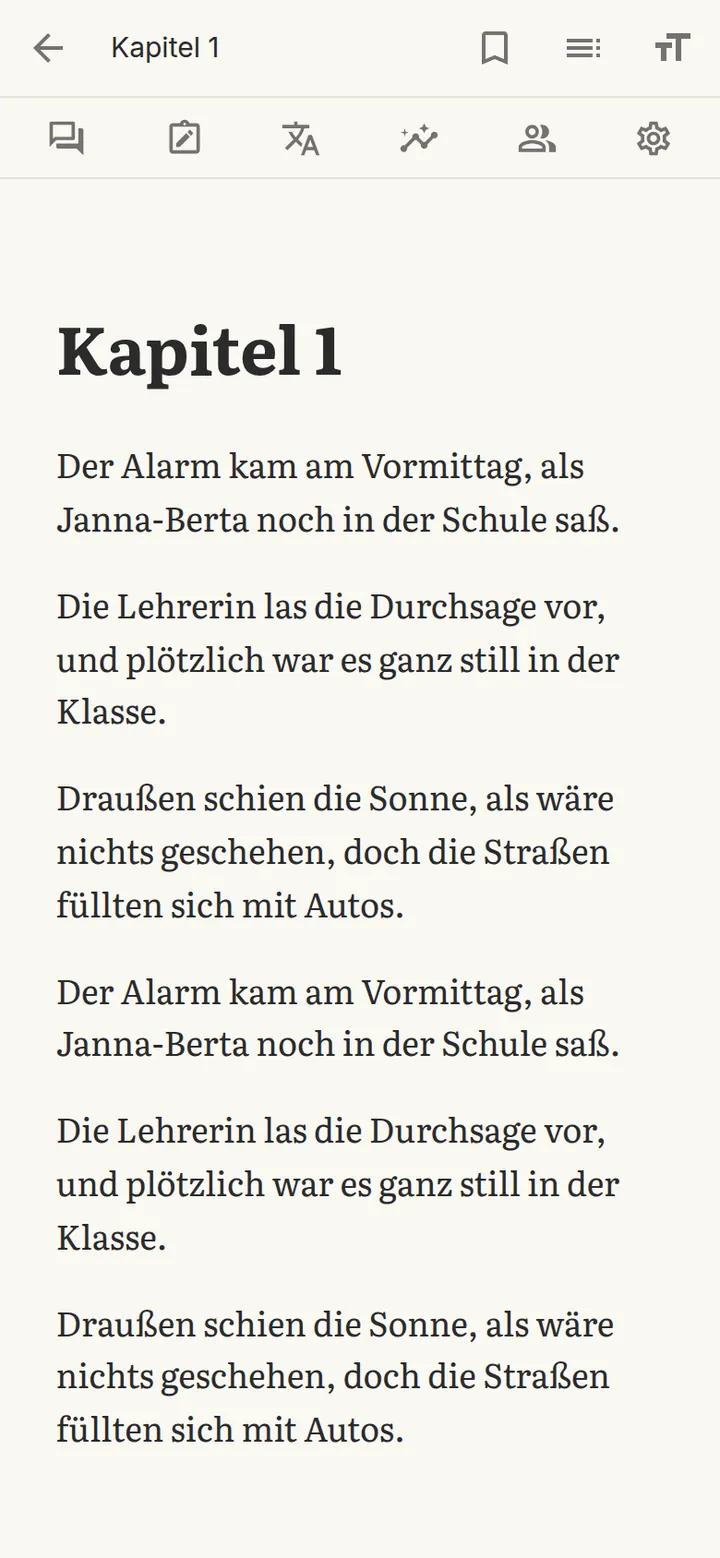
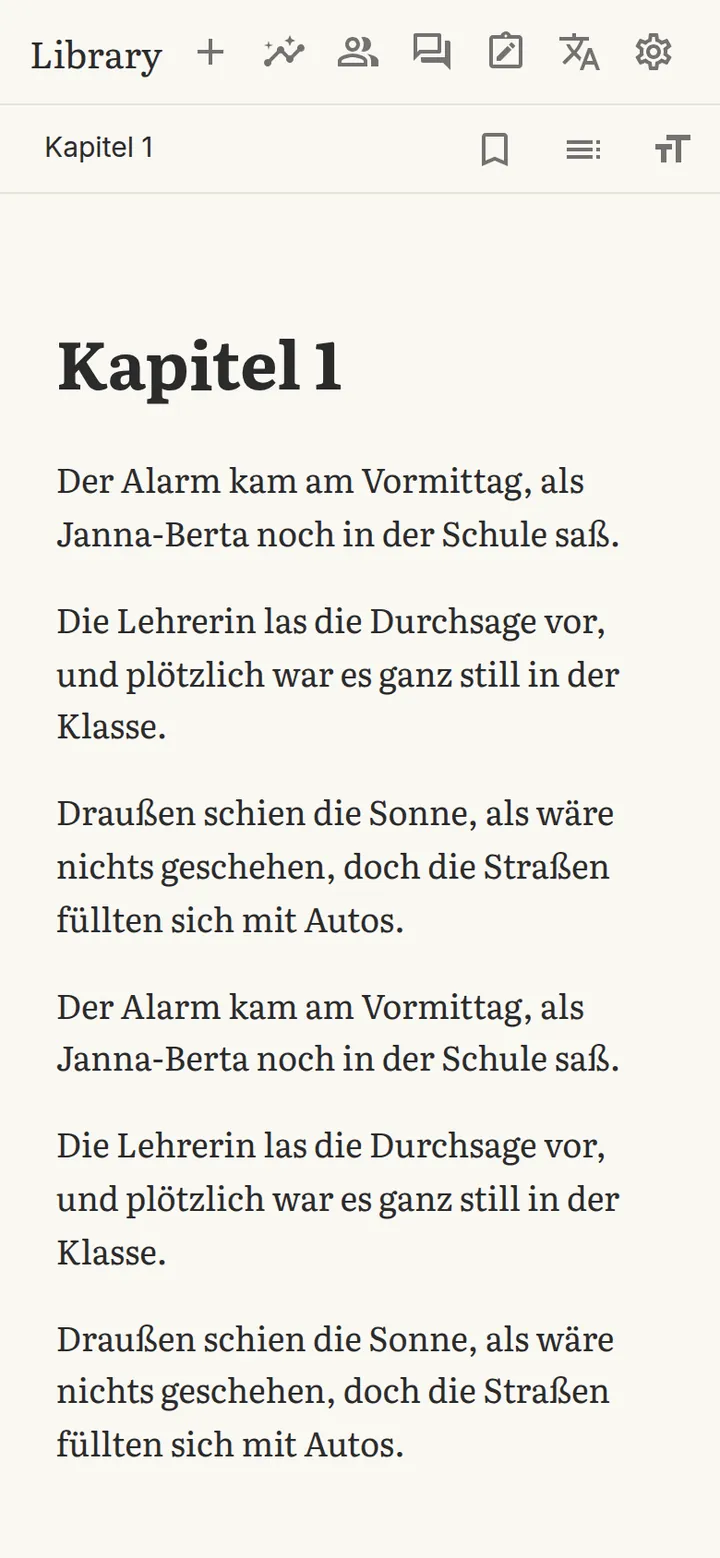
The Library bar on top of every page, the book and the chat included, always in the same place (TopBar); the page's own bar under it, without its back arrow; 'Continue reading' on the chat page too; tests; the manual and its screenshots

diff --git a/frontend/src/pages/ReaderPage.tsx b/frontend/src/pages/ReaderPage.tsx
@@ -1,9 +1,8 @@
 import { useCallback, useEffect, useMemo, useRef, useState } from 'react';
-import { Alert, AppBar, Box, Button, Dialog, DialogActions, DialogContent, DialogTitle, Divider, IconButton, LinearProgress, ListItemText, Menu, MenuItem, Snackbar, TextField, Toolbar, Typography, useMediaQuery, useTheme } from '@mui/material';
+import { Alert, AppBar, Box, Button, Dialog, DialogActions, DialogContent, DialogTitle, IconButton, LinearProgress, ListItemText, Menu, MenuItem, Snackbar, TextField, Toolbar, Typography } from '@mui/material';
 import BookmarkBorderIcon from '@mui/icons-material/BookmarkBorder';
 import BookmarkIcon from '@mui/icons-material/Bookmark';
 import { annotationsFor, deleteAnnotation, saveAnnotation, subscribeAnnotations, syncAnnotations, updateAnnotation, type Annotation } from '@/services/annotations';
-import ArrowBackIcon from '@mui/icons-material/ArrowBack';
 import FormatSizeIcon from '@mui/icons-material/FormatSize';
 import TocIcon from '@mui/icons-material/Toc';
 import SwapHorizIcon from '@mui/icons-material/SwapHoriz';
@@ -32,7 +31,7 @@ import type { TextSelection } from '@/reader/selection';
 import { SelectionPanel } from '@/reader/SelectionPanel';
 import { ImageViewer, type ViewedImage } from '@/components/ImageViewer';
 import { useSendToComputer } from '@/components/SendToComputer';
-import { ToolLinks } from '@/components/ToolLinks';
+import { TopBar } from '@/components/TopBar';
 import { setReadingNow } from '@/reader/readingNow';
 
 // Best reading experience first: text that reflows, then EPUB, then fixed PDF pages
@@ -272,18 +271,16 @@ export default function ReaderPage() {
     ref: viewRef, onLocation, onToc: setToc, onCurrentToc: setCurrentToc, onSelection, settings,
     vars: readingVars(settings), dark: colors.mode === 'dark', highlights, seenWords, onImage: setPicture,
   };
-  const theme = useTheme();
   const title = toc.find((t) => t.id === currentToc)?.label ?? book?.title;
-  const wideBar = useMediaQuery(theme.breakpoints.up('md'));
 
   return (
     <Box sx={{ height: '100vh', '@supports (height: 100dvh)': { height: '100dvh' }, display: 'flex',
       flexDirection: 'column', bgcolor: colors.background }}>
       <AppBar position="static" sx={{ pt: 'env(safe-area-inset-top)' }}>
-        {/* thumb-sized buttons, bigger and further apart on a tablet */}
-        <Toolbar variant="dense" sx={{ minHeight: { xs: 52, sm: 72 }, gap: { xs: 0.5, sm: 2.5 },
+        <TopBar bookId={book?.id} />
+        {/* the book's own bar: thumb-sized buttons, bigger and further apart on a tablet */}
+        <Toolbar variant="dense" sx={{ minHeight: { xs: 48, sm: 60 }, gap: { xs: 0.5, sm: 2.5 }, borderTop: 1, borderColor: 'divider',
           '& .MuiIconButton-root': { p: { xs: 1.25, sm: 1.75 } }, '& .MuiSvgIcon-root': { fontSize: { xs: 24, sm: 34 } } }}>
-          <IconButton edge="start" aria-label="Back to the library" onClick={() => navigate('/')}><ArrowBackIcon /></IconButton>
           <Typography noWrap sx={{ flex: 1, mx: 1, fontSize: { xs: 15, sm: 20 } }}>{title}</Typography>
           {formats.length > 1 && (
             <Button color="inherit" startIcon={<SwapHorizIcon />} aria-label="Switch format"
@@ -299,20 +296,10 @@ export default function ReaderPage() {
           {phase.kind === 'ready' && (
             <IconButton aria-label="Contents" onClick={openToc}><TocIcon /></IconButton>
           )}
-          <IconButton edge={wideBar ? false : 'end'} aria-label="Text settings" onClick={(e) => setSettingsAnchor(e.currentTarget)}>
+          <IconButton edge="end" aria-label="Text settings" onClick={(e) => setSettingsAnchor(e.currentTarget)}>
             <FormatSizeIcon />
           </IconButton>
-          {/* the app's tools, without leaving for the library: in this row when it's wide enough, else in their own */}
-          {wideBar && <Divider orientation="vertical" flexItem sx={{ my: 1.5 }} />}
-          {wideBar && <ToolLinks bookId={book?.id} />}
         </Toolbar>
-        {!wideBar && (
-          <Toolbar variant="dense" sx={{ minHeight: { xs: 44, sm: 56 }, justifyContent: 'space-around', px: { xs: 0.5, sm: 2 },
-            borderTop: 1, borderColor: 'divider', '& .MuiIconButton-root': { p: { xs: 1, sm: 1.5 } },
-            '& .MuiSvgIcon-root': { fontSize: { xs: 22, sm: 30 } } }}>
-            <ToolLinks bookId={book?.id} />
-          </Toolbar>
-        )}
       </AppBar>
       <Box sx={{ flex: 1, minHeight: 0, position: 'relative' }}>
         {!book && library && <Alert severity="warning" sx={{ m: 2 }}>This book is no longer in the library.</Alert>}

diff --git a/frontend/src/components/AppShell.tsx b/frontend/src/components/AppShell.tsx
@@ -1,43 +1,13 @@
 import type { ReactNode } from 'react';
-import { AppBar, Box, Button, Toolbar, Tooltip, Typography } from '@mui/material';
-import MenuBookOutlinedIcon from '@mui/icons-material/MenuBookOutlined';
-import CloudOffOutlinedIcon from '@mui/icons-material/CloudOffOutlined';
-import { Link as RouterLink } from 'react-router-dom';
-import { useOnlineStatus } from '@/hooks/useOnlineStatus';
-import { readingNow } from '@/reader/readingNow';
-import { ToolLinks } from './ToolLinks';
-import { READING_FONT } from '@/theme/readingThemes';
+import { AppBar, Box } from '@mui/material';
+import { ContinueReading, TopBar } from './TopBar';
 
 export function AppShell({ children }: { children: ReactNode }) {
-  const online = useOnlineStatus();
-  const reading = readingNow();
   return (
     <Box sx={{ minHeight: '100vh', bgcolor: 'background.default', color: 'text.primary' }}>
       <AppBar position="sticky" sx={{ pt: 'env(safe-area-inset-top)' }}>
-        {/* on a tablet: bigger icons, further apart (a phone has no room to spare for seven of them) */}
-        <Toolbar sx={{ minHeight: { sm: 72 }, gap: { xs: 0, sm: 1.5 },
-          '& .MuiIconButton-root': { p: { sm: 1.5 } }, '& .MuiIconButton-root .MuiSvgIcon-root': { fontSize: { sm: 32 } } }}>
-          <Typography component={RouterLink} to="/" variant="h6"
-            sx={{ flexGrow: 1, fontFamily: READING_FONT, fontSize: { sm: 24 }, color: 'inherit', textDecoration: 'none' }}>
-            Library
-          </Typography>
-          {!online && (
-            <Tooltip title="Offline: downloaded books still open">
-              <CloudOffOutlinedIcon fontSize="small" sx={{ color: 'text.secondary', mr: 1 }} />
-            </Tooltip>
-          )}
-          <ToolLinks />
-        </Toolbar>
-        {reading && (
-          <Button component={RouterLink} to={`/read/${encodeURIComponent(reading.id)}`} color="inherit" size="small"
-            startIcon={<MenuBookOutlinedIcon />}
-            sx={{ justifyContent: 'flex-start', px: { xs: 2, sm: 3 }, py: 0.75, borderRadius: 0, borderTop: 1,
-              borderColor: 'divider', fontSize: { xs: 14, sm: 16 }, textTransform: 'none' }}>
-            <Box component="span" sx={{ overflow: 'hidden', textOverflow: 'ellipsis', whiteSpace: 'nowrap' }}>
-              Continue reading: {reading.title}
-            </Box>
-          </Button>
-        )}
+        <TopBar />
+        <ContinueReading />
       </AppBar>
       <Box component="main" sx={{ px: { xs: 2, sm: 3 }, py: 3, maxWidth: 1200, mx: 'auto' }}>{children}</Box>
     </Box>

diff --git a/frontend/src/components/TopBar.tsx b/frontend/src/components/TopBar.tsx
@@ -1,0 +1,46 @@
+import { Box, Button, Toolbar, Tooltip, Typography } from '@mui/material';
+import MenuBookOutlinedIcon from '@mui/icons-material/MenuBookOutlined';
+import CloudOffOutlinedIcon from '@mui/icons-material/CloudOffOutlined';
+import { Link as RouterLink } from 'react-router-dom';
+import { useOnlineStatus } from '@/hooks/useOnlineStatus';
+import { readingNow } from '@/reader/readingNow';
+import { READING_FONT } from '@/theme/readingThemes';
+import { ToolLinks } from './ToolLinks';
+
+/** The app's bar, the same at the top of every page (Library and the tools); a page's own bar goes under it.
+ *  `bookId`: the book open now (a chat started from it asks about it). */
+export function TopBar({ bookId }: { bookId?: string }) {
+  const online = useOnlineStatus();
+  return (
+    // on a tablet: bigger icons, further apart (a phone has no room to spare for seven of them)
+    <Toolbar sx={{ minHeight: { sm: 72 }, gap: { xs: 0, sm: 1.5 },
+      '& .MuiIconButton-root': { p: { sm: 1.5 } }, '& .MuiIconButton-root .MuiSvgIcon-root': { fontSize: { sm: 32 } } }}>
+      <Typography component={RouterLink} to="/" variant="h6"
+        sx={{ flexGrow: 1, fontFamily: READING_FONT, fontSize: { sm: 24 }, color: 'inherit', textDecoration: 'none' }}>
+        Library
+      </Typography>
+      {!online && (
+        <Tooltip title="Offline: downloaded books still open">
+          <CloudOffOutlinedIcon fontSize="small" sx={{ color: 'text.secondary', mr: 1 }} />
+        </Tooltip>
+      )}
+      <ToolLinks bookId={bookId} />
+    </Toolbar>
+  );
+}
+
+/** "Continue reading: …" under the top bar, back to the book left last (this session) at its place */
+export function ContinueReading() {
+  const reading = readingNow();
+  if (!reading) return null;
+  return (
+    <Button component={RouterLink} to={`/read/${encodeURIComponent(reading.id)}`} color="inherit" size="small"
+      startIcon={<MenuBookOutlinedIcon />}
+      sx={{ justifyContent: 'flex-start', px: { xs: 2, sm: 3 }, py: 0.75, borderRadius: 0, borderTop: 1,
+        borderColor: 'divider', fontSize: { xs: 14, sm: 16 }, textTransform: 'none' }}>
+      <Box component="span" sx={{ overflow: 'hidden', textOverflow: 'ellipsis', whiteSpace: 'nowrap' }}>
+        Continue reading: {reading.title}
+      </Box>
+    </Button>
+  );
+}

diff --git a/frontend/src/pages/AskPage.tsx b/frontend/src/pages/AskPage.tsx
@@ -1,11 +1,11 @@
 import { useCallback, useEffect, useMemo, useRef, useState, type FormEvent } from 'react';
+import { ContinueReading, TopBar } from '@/components/TopBar';
 import {
   Alert, AppBar, Box, Button, Card, CardActionArea, CardContent, CircularProgress, Collapse, Dialog, DialogActions,
   DialogContent, DialogTitle, Drawer, IconButton, InputAdornment, List, ListItemButton, Link, ListItemText, Menu, MenuItem,
   Chip, Stack, TextField, Toolbar, Tooltip, Typography, useMediaQuery, useTheme,
 } from '@mui/material';
 import AddCommentOutlinedIcon from '@mui/icons-material/AddCommentOutlined';
-import ArrowBackIcon from '@mui/icons-material/ArrowBack';
 import ArrowUpwardIcon from '@mui/icons-material/ArrowUpward';
 import DeleteOutlineIcon from '@mui/icons-material/DeleteOutline';
 import DriveFileRenameOutlineIcon from '@mui/icons-material/DriveFileRenameOutline';
@@ -293,9 +293,11 @@ export default function AskPage() {
     <Box sx={{ height: '100vh', '@supports (height: 100dvh)': { height: '100dvh' }, display: 'flex', flexDirection: 'column',
       bgcolor: 'background.default' }}>
       <AppBar position="static" sx={{ pt: 'env(safe-area-inset-top)' }}>
-        <Toolbar variant="dense">
-          <IconButton edge="start" aria-label="Back to the library" onClick={() => navigate('/')}><ArrowBackIcon /></IconButton>
-          {!wide && <IconButton aria-label="Chats" onClick={() => setDrawer(true)}><MenuIcon /></IconButton>}
+        <TopBar />
+        <ContinueReading />
+        {/* the chat's own bar */}
+        <Toolbar variant="dense" sx={{ borderTop: 1, borderColor: 'divider' }}>
+          {!wide && <IconButton edge="start" aria-label="Chats" onClick={() => setDrawer(true)}><MenuIcon /></IconButton>}
           <Typography noWrap sx={{ flex: 1, mx: 1, fontSize: 15 }}>{conversation?.title || 'Ask your library'}</Typography>
           <Tooltip title="Which books to search">
             <Button size="small" color="inherit" startIcon={<LibraryBooksOutlinedIcon />} onClick={(e) => setScopeMenu(e.currentTarget)}

diff --git a/frontend/src/components/manual/content/reading.tsx b/frontend/src/components/manual/content/reading.tsx
@@ -2,7 +2,6 @@
 import MenuBookOutlinedIcon from '@mui/icons-material/MenuBookOutlined';
 import FormatSizeIcon from '@mui/icons-material/FormatSize';
 import HighlightAltIcon from '@mui/icons-material/HighlightAlt';
-import ArrowBackIcon from '@mui/icons-material/ArrowBack';
 import BookmarkBorderIcon from '@mui/icons-material/BookmarkBorder';
 import TocIcon from '@mui/icons-material/Toc';
 import SwapHorizIcon from '@mui/icons-material/SwapHoriz';
@@ -58,15 +57,14 @@ export const reading: ManualChapter = {
       body: (
         <>
           <Controls rows={[
-            { icon: <ArrowBackIcon />, label: 'Back', text: 'To the library.' },
             { icon: <SwapHorizIcon />, label: 'Format', text: 'Another format of the book (only when it has several).' },
             { icon: <BookmarkBorderIcon />, label: 'Bookmark', text: 'Bookmark this place, or remove the bookmark that\'s here.' },
             { icon: <TocIcon />, label: 'Contents', text: 'The chapters, your highlights and bookmarks, and the words you looked up (next section).' },
             { icon: <FormatSizeIcon />, label: 'Text settings', text: <>Theme, text size, spacing, margins (<ManualLink to="themes">Text and themes</ManualLink>).</> },
           ]} />
-          <p>Under it (or in the same row on a wide screen) are the app's tools: Ask, Notes, Translations, Statistics,
-            Community and Settings. A chat started from a book asks about that book. Come back with the back button, or
-            <em> Continue reading</em> on any page (<ManualLink to="around.topbar">The top bar</ManualLink>).</p>
+          <p>Above it is the app's bar, as on every page: <strong>Library</strong> and the tools
+            (<ManualLink to="around.topbar">The top bar</ManualLink>). A chat started from a book asks about that book.
+            Come back with the back button, or <em>Continue reading</em> on any page.</p>
         </>
       ),
     },

diff --git a/frontend/src/components/manual/content/basics.tsx b/frontend/src/components/manual/content/basics.tsx
@@ -96,10 +96,9 @@ export const findingYourWay: ManualChapter = {
       title: 'The top bar',
       body: (
         <>
-          <p>Every page has these tools at the top; tap <strong>Library</strong> on the left to come back home. In a book
-            they're in a row under the book's own bar (in the same row on a wide screen), so the chat, your notes and
-            translations are one tap away while you read. After leaving a book, <em>Continue reading: …</em> under the top
-            bar takes you back to it, at your place.</p>
+          <p>This bar is at the top of every page, the book included, always in the same place: tap <strong>Library</strong>
+            on the left to come back home, or a tool. A page's own bar (the book's, the chat's) is under it. After
+            leaving a book, <em>Continue reading: …</em> under the bar takes you back to it, at your place.</p>
           <Screenshot name="topbar" caption="The top bar on a tablet" device="tablet" />
           <Controls rows={[
             { icon: <AddIcon />, label: 'Add books', text: <>Upload PDFs, EPUBs and Markdown to the shared library (<ManualLink to="adding">Adding books</ManualLink>).</> },

diff --git a/frontend/src/components/ToolLinks.tsx b/frontend/src/components/ToolLinks.tsx
@@ -18,15 +18,12 @@ const TOOLS = [
   { to: '/settings', label: 'Settings', icon: <SettingsOutlinedIcon /> },
 ] as const;
 
-// in a book, what's used while studying comes first
-const IN_BOOK = ['/ask', '/notes', '/translations', '/stats', '/community', '/settings'];
-
-/** The app's tools as icon buttons: in the top bar, and in the book (without "Add a book"; a chat started from the
- *  book asks about that book). Back from a tool returns to the book at its place. */
+/** The app's tools as icon buttons, the same on every page (TopBar); in a book, a chat started from it asks about
+ *  that book. */
 export function ToolLinks({ bookId }: { bookId?: string }) {
   return (
     <>
-      {(bookId ? IN_BOOK.map((to) => TOOLS.find((t) => t.to === to)!) : TOOLS).map((t) => (
+      {TOOLS.map((t) => (
         <Tooltip key={t.to} title={t.label}>
           <IconButton component={RouterLink} to={t.to} aria-label={t.label}
             state={bookId && t.to === '/ask' ? { bookId } : undefined}>

diff --git a/e2e/tests/test_reader.py b/e2e/tests/test_reader.py
@@ -77,11 +77,11 @@ def test_night_theme_taps_flash_amber_not_blue(page, book_id):
         assert b == 0 and r > g > 0, colour
 
 
-def test_the_tools_are_one_tap_away_in_the_book_and_back(page, book_id):
+def test_the_app_bar_is_on_top_in_the_book_and_leads_back(page, book_id):
     open_book(page, book_id)
     page.get_by_label("Ask your library").click()  # from the book's tool row
     page.get_by_text("One book").wait_for()  # a chat started from the book asks about it
-    page.get_by_label("Back to the library").click()
+    page.get_by_role("link", name="Library", exact=True).click()  # the app bar, on top of the chat too
     page.get_by_role("link", name=re.compile("Continue reading: Die Wolke")).click()
     until(lambda: next((f for f in page.frames if f.locator(f"text={FIRST}").count()), None), timeout=30, what="the book again")
     assert "/read/" in page.url
